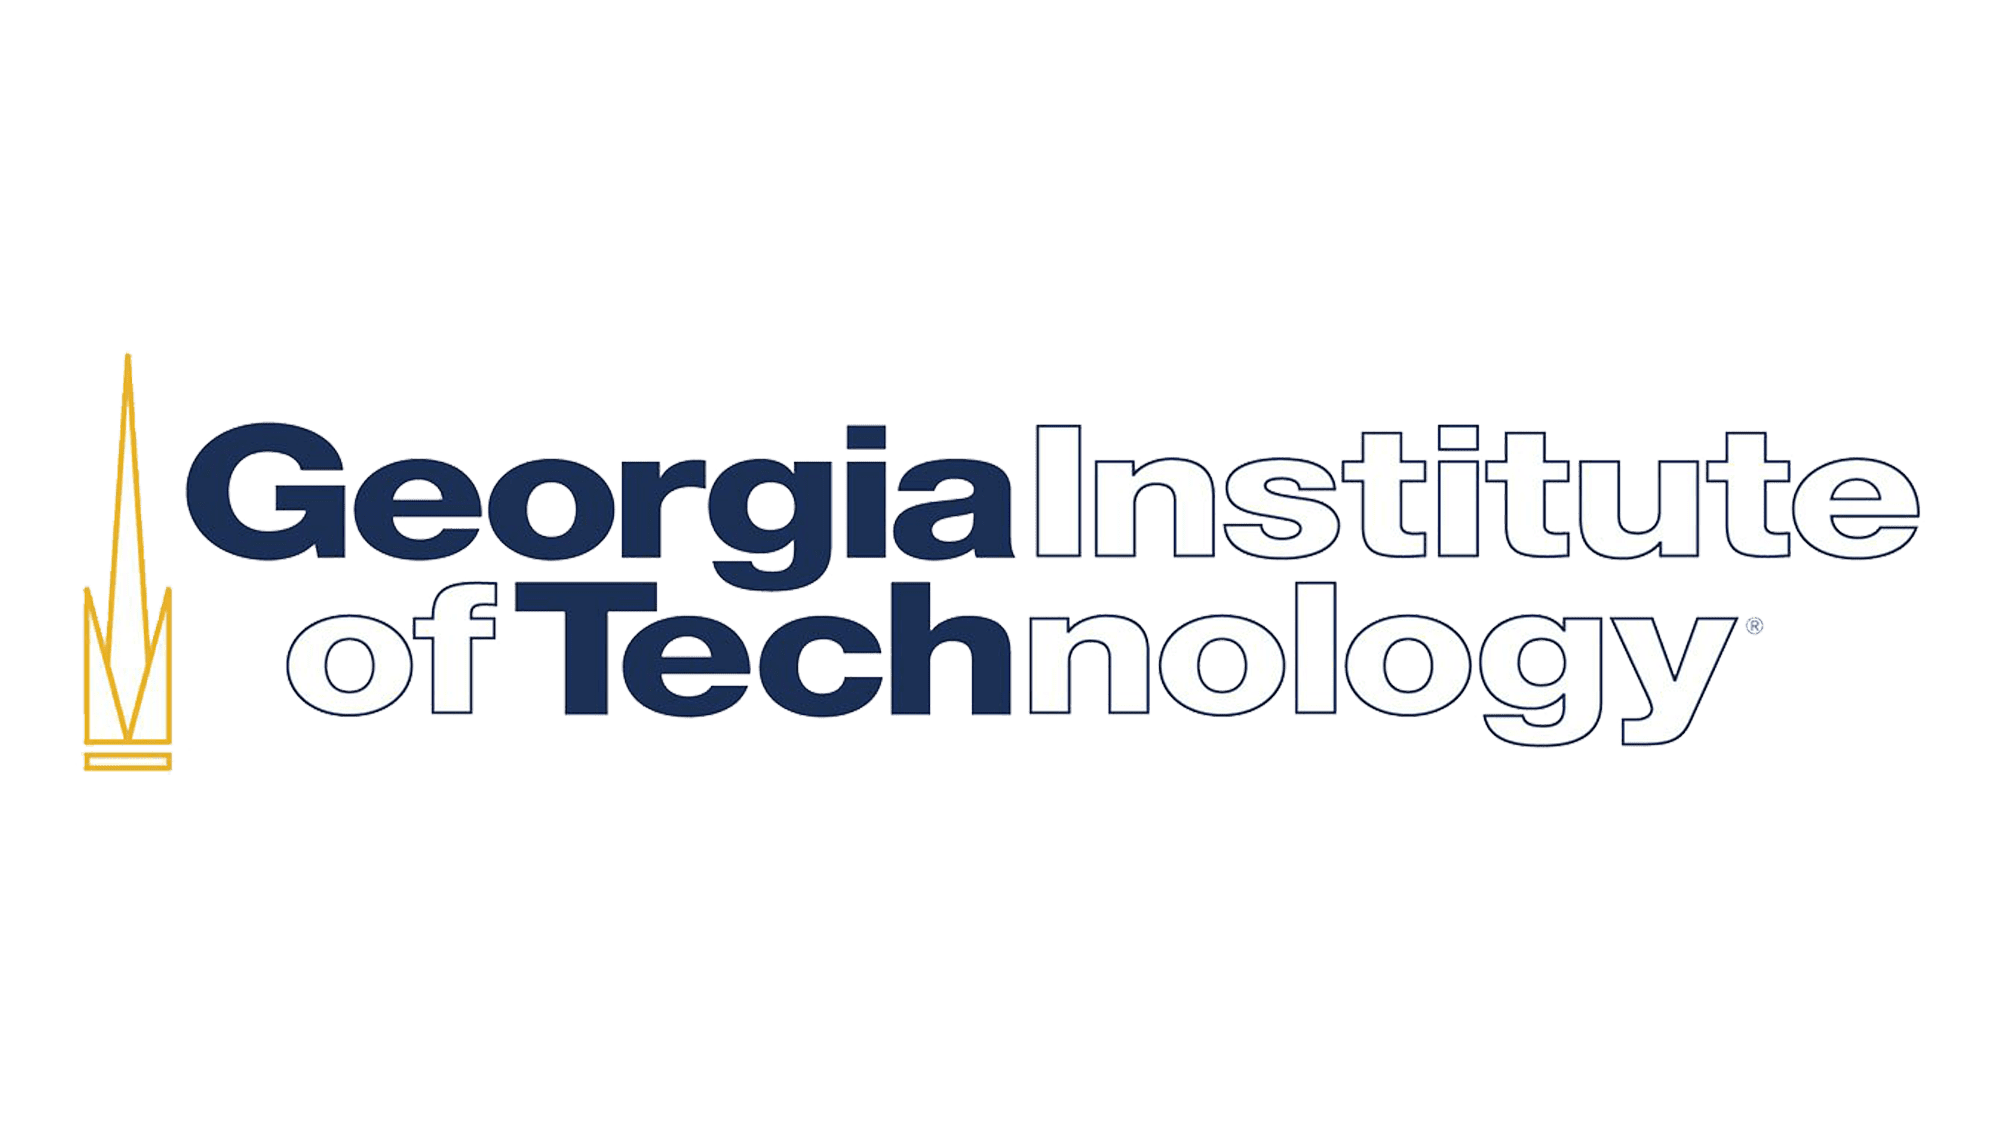
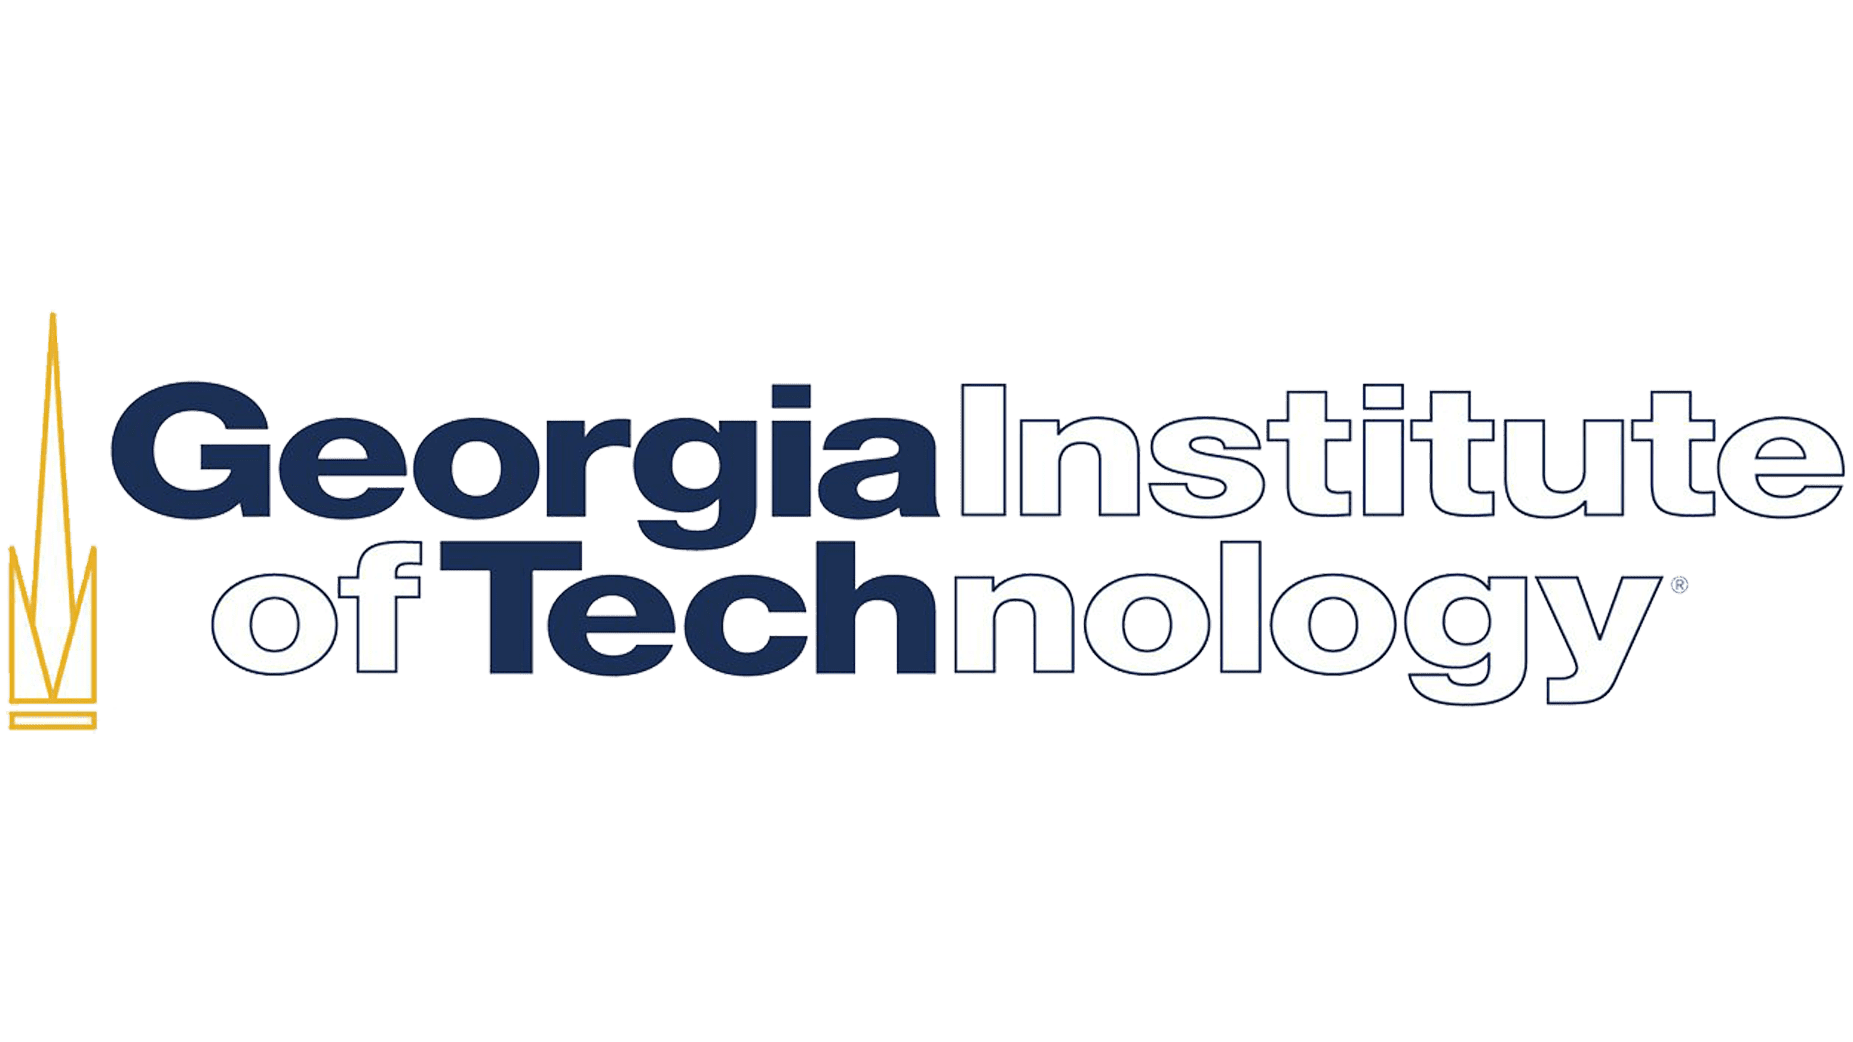
added things to Education

Changed region(s): [[0.0, 0.3071, 1.0, 0.7063]]

diff --git a/index.html b/index.html
@@ -626,13 +626,13 @@
 
 <!-- #1 -->
 <tbody><tr>
-  <td width="40%" valign="top" align="center"><a href="https://www.gatech.edu/">
+  <td width="40%" valign="top" align="center"><a href="https://www.tntech.edu/">
   <!-- <video autoplay="" loop="" muted="" src="./documents/video/vision-loco.mp4" alt="sym" style="padding-top:0px;padding-bottom:0px;border-radius:15px;" width="90%"></video> -->
-  <img src="./documents/images/georgia_tech.png" alt="georgia_tech" style="padding-top:0px;padding-bottom:0px;border-radius:15px;" width="90%">
+  <img src="./documents/images/tennessee_tech.png" alt="georgia_tech" style="padding-top:0px;padding-bottom:0px;border-radius:15px;" width="90%">
 
   </a></td>
   <td width="67%" valign="top">
-    <p><a href="https://codyhouff.github.io/Life_in_weeks/" id="GEORGIA_TECH">
+    <p><a href="https://codyhouff.github.io/Life_in_weeks/" id="TENNESSEE_TECH">
     <heading>Tennessee Technological University</heading></a><br>
     Cody Houff<br>
     B.S. Mechanical Engineering concentration in Mechatronics<br>
@@ -641,15 +641,15 @@
     <b></b>
     </p>
 
-    <div class="paper" id="ai_progress">
+    <div class="paper" id="tennessee_tech">
     <!-- <a href="https://codyhouff.github.io/Life_in_weeks/">webpage</a> | -->
-    <a href="javascript:toggleblock(&#39;georgia_tech_abs&#39;)">summary</a> |
-    <!-- <a shape="rect" href="javascript:togglebib(&#39;life_in_weeks&#39;)" class="togglebib">bibtex</a> | -->
+    <!-- <a href="javascript:toggleblock(&#39;tennessee_tech_abs&#39;)">summary</a> | -->
+    <!-- <a shape="rect" href="javascript:togglebib(&#39;tennessee_tech&#39;)" class="togglebib">bibtex</a> | -->
     <!-- <a href="https://arxiv.org/abs/2211.07638">arXiv</a> | -->
     <!-- <a href="https://youtu.be/5sRqythe6TE">demo</a> | -->
-    <a href="https://github.com/codyhouff/Life_in_weeks">code</a>
+    <!-- <a href="https://github.com/codyhouff/Life_in_weeks">code</a> -->
 
-    <p align="justify" style="display: none;" id="georgia_tech_abs"></p>
+    <p align="justify" style="display: none;" id="tennessee_tech_abs"></p>
 
 <pre xml:space="preserve" style="display:none;">  N/A
 </pre>
@@ -674,11 +674,11 @@
 
     <div class="paper" id="georgia_tech">
     <!-- <a href="https://github.com/jeremy-collins/vroom">webpage</a> | -->
-    <a href="javascript:toggleblock(&#39;georgia_tech_abs&#39;)">abstract</a> |
-    <a shape="rect" href="javascript:togglebib(&#39;georgia_tech&#39;)" class="togglebib">bibtex</a> |
-    <a href="./documents/pdfs/video_demonstrations.pdf">pdf</a> |
-    <a href="https://www.youtube.com/watch?v=KbrXWbp9Awc">demo</a> |
-    <a href="https://github.com/jeremy-collins/vroom">code</a>
+    <!-- <a href="javascript:toggleblock(&#39;georgia_tech_abs&#39;)">abstract</a> | -->
+    <!-- <a shape="rect" href="javascript:togglebib(&#39;georgia_tech&#39;)" class="togglebib">bibtex</a> | -->
+    <!-- <a href="./documents/pdfs/video_demonstrations.pdf">pdf</a> | -->
+    <!-- <a href="https://www.youtube.com/watch?v=KbrXWbp9Awc">demo</a> | -->
+    <!-- <a href="https://github.com/jeremy-collins/vroom">code</a> -->
 
     <p align="justify" style="display: none;" id="georgia_tech_abs">Training an agent to solve a wide variety of complextasks has remained an open problem for decades; long-horizon, reward-sparse environments are notoriously diffi-cult to learn from scratch via reinforcement learning. Onesuch domain is robotic manipulation, which has been along-standing problem facing classical control theoristsand roboticists alike. At the core of this problem is the curseof dimensionality – the space of possible trajectories is solarge that a complete search through this space to learn apolicy is intractable for even short-horizon tasks. Addition-ally, very precise sensing is often required for robustness butoften leads to expensive solutions that are prone to hard-ware failure. We present an alternative approach that usesvisual data alone to learn a control policy for a robotic armby observing expert video demonstrations. We implementand test several models, accomplishing an 85% success fora pick-and-place task.</p>
 
